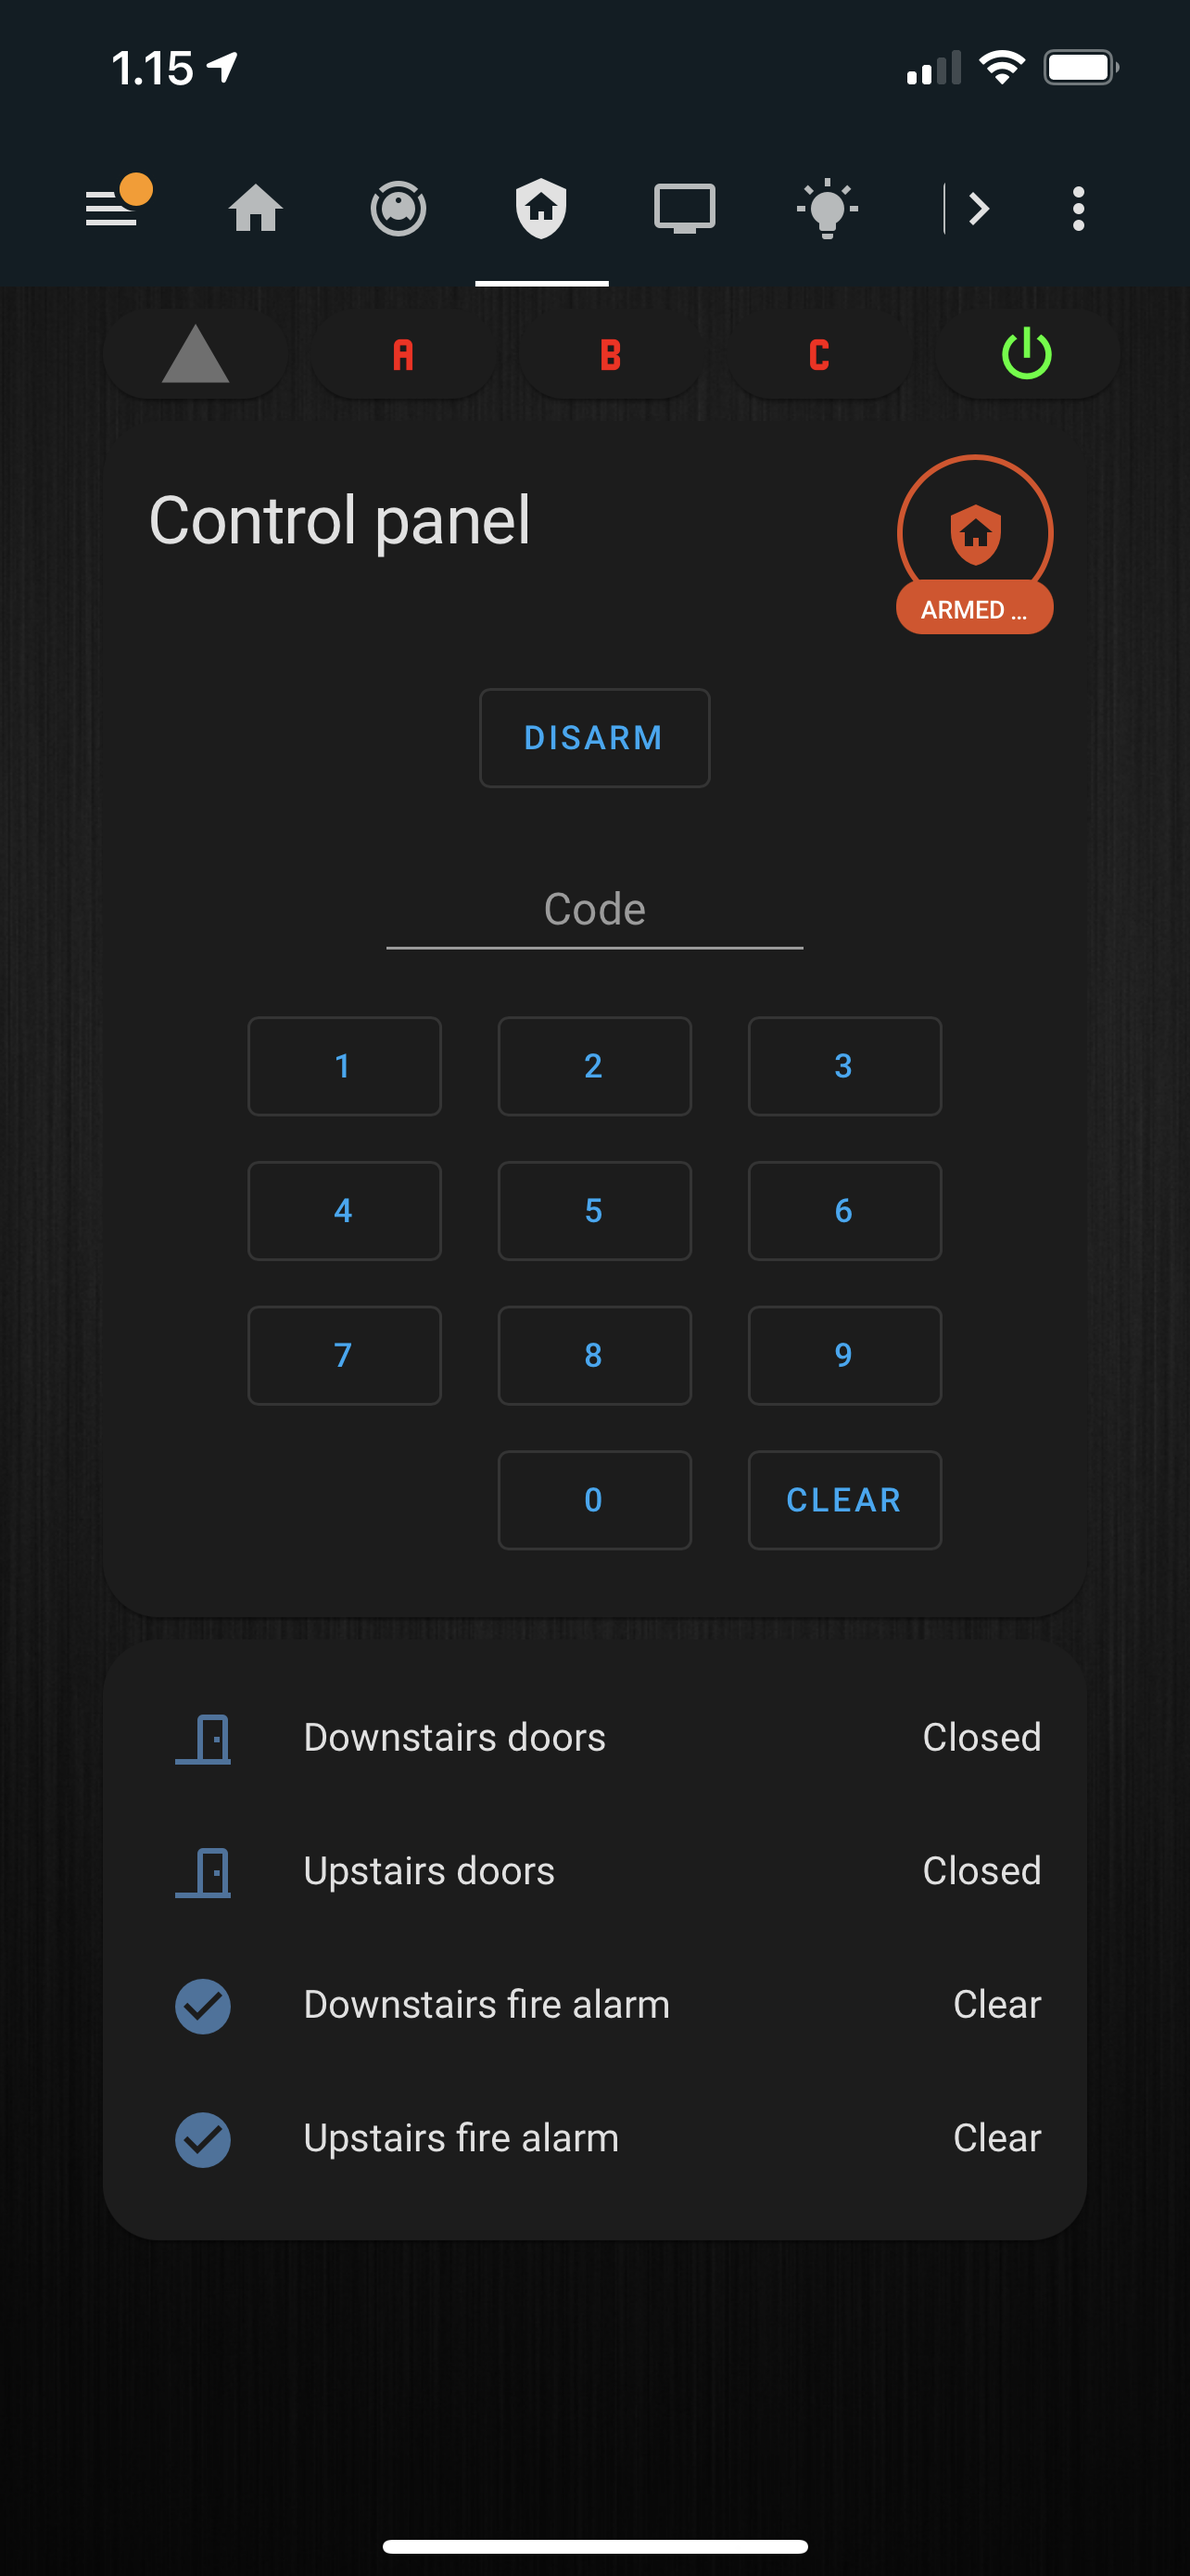
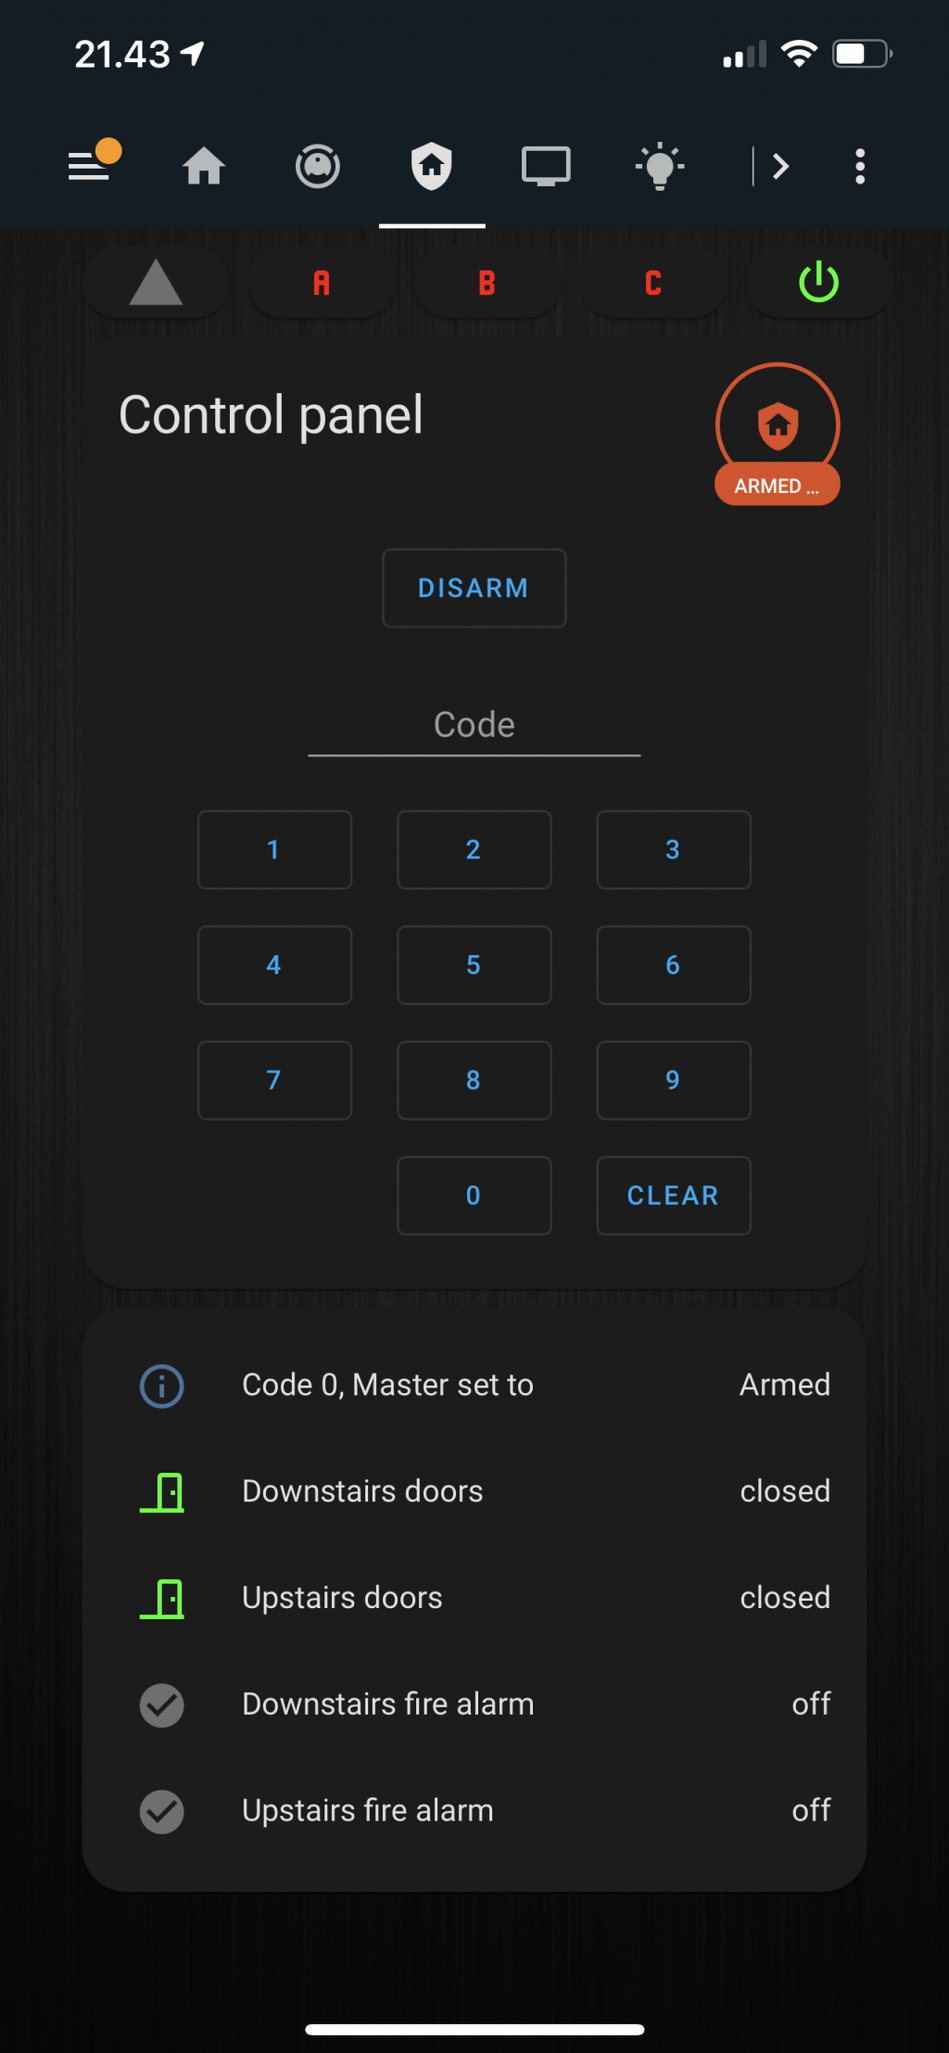
Bug fixes and documentation updates

diff --git a/custom_components/jablotron80/jablotron.py b/custom_components/jablotron80/jablotron.py
@@ -1465,10 +1465,11 @@ class JA80CentralUnit(object):
 			self._call_zone(3,by = detail,function_name="armed")
 		elif status == JablotronState.ARMED_ENTRY_DELAY: 
 			# is detail 2 device id?
-			if not detail_2 == 0x00:
-				device = self.get_device(detail_2)
-				self._get_zone_via_object(device).entering(device)
-				self._activate_source(detail_2)
+			#if not detail_2 == 0x00:
+		#		device = self.get_device(detail_2)
+		#		self._get_zone_via_object(device).entering(device)
+		#		self._activate_source(detail_2)
+			pass
 		elif status == JablotronState.EXIT_DELAY_ABC:
 			self._call_zones(function_name="arming")
 		elif status == JablotronState.EXIT_DELAY_A:
@@ -1910,6 +1911,9 @@ class JA80CentralUnit(object):
 	
 	def disarm(self,code:str,zone:str=None) -> None:
 		self.send_key_press(code)
+		if JablotronState.is_alarm_state(self._last_state):
+			#confirm alarm
+			self.send_key_press("?")
 		
 	async def processing_loop(self) -> None:
 		previous_record = None

diff --git a/README.md b/README.md
@@ -71,7 +71,7 @@ Each sensor has additional state attributes depending in jablotron configuration
 Example alarm control panel defined in lovelace yaml
 
 ```
-  - id:  security
+- id:  security
     icon: mdi:shield-home
     title: Security
     cards:
@@ -160,15 +160,32 @@ Example alarm control panel defined in lovelace yaml
               - <<: *cb_spacer_10px
               - <<: *card_mod_margin_mainstyle
                 type: entities
+                show_state: False
                 entities:
-                  - entity: binary_sensor.doors_downstairs
+                  - type: custom:template-entity-row 
+                    entity: sensor.zone_c
+                    name: > 
+                       {{state_attr('sensor.zone_c','by') }}      set to
+                    icon: "{% if is_state('sensor.zone_c.state','alarm')%}  mdi:hazard-lights  {% else %} mdi:information-outline {% endif %}"
+                    color: "{% if is_state('sensor.zone_c.state','alarm')%}  rgb(255,5,5) {% endif %}"
+                  - type: custom:template-entity-row 
+                    entity: binary_sensor.doors_downstairs
                     name: Downstairs doors
-                  - entity: binary_sensor.doors_upstairs
+                    color: "{% if is_state('binary_sensor.doors_downstairs','on')%}  rgb(255,5,5)  {% else %} rgb(5,255,5) {% endif %}"
+                    state: "{% if is_state('binary_sensor.doors_downstairs','on')%}  open  {% else %} closed {% endif %}"
+                  - type: custom:template-entity-row 
+                    entity: binary_sensor.doors_upstairs
                     name: Upstairs doors
-                  - entity: binary_sensor.firealarm_downstairs
+                    color: "{% if is_state('binary_sensor.doors_upstairs','on')%}  rgb(255,5,5)  {% else %} rgb(5,255,5) {% endif %}"
+                    state: "{% if is_state('binary_sensor.doors_downstairs','on')%}  open  {% else %} closed {% endif %}"
+                  - type: custom:template-entity-row 
+                    entity: binary_sensor.firealarm_downstairs
                     name: Downstairs fire alarm
-                  - entity: binary_sensor.firealarm_upstairs
+                    color: "{% if is_state('binary_sensor.firealarm_downstairs','on')%}  rgb(255,5,5)  {% else %} var(--disabled-text-color) {% endif %}"
+                  - type: custom:template-entity-row 
+                    entity: binary_sensor.firealarm_upstairs
                     name: Upstairs fire alarm
+                    color: "{% if is_state('binary_sensor.firealarm_upstairs','on')%}  rgb(255,5,5)  {% else %} var(--disabled-text-color) {% endif %}"
               - <<: *cb_spacer_10px
 ```
 
@@ -176,6 +193,16 @@ Screenshot of alarm control panel
 
 <img src="examples/mobile_app.png" alt="Alarm control panel" width="200"/>
 
+
+## Troubleshooting
+
+Additional logging can be enabled in configuration.yaml
+
+```
+logger:
+ logs:
+   custom_components.jablotron80: debug
+```
 
 ## Credits
 
